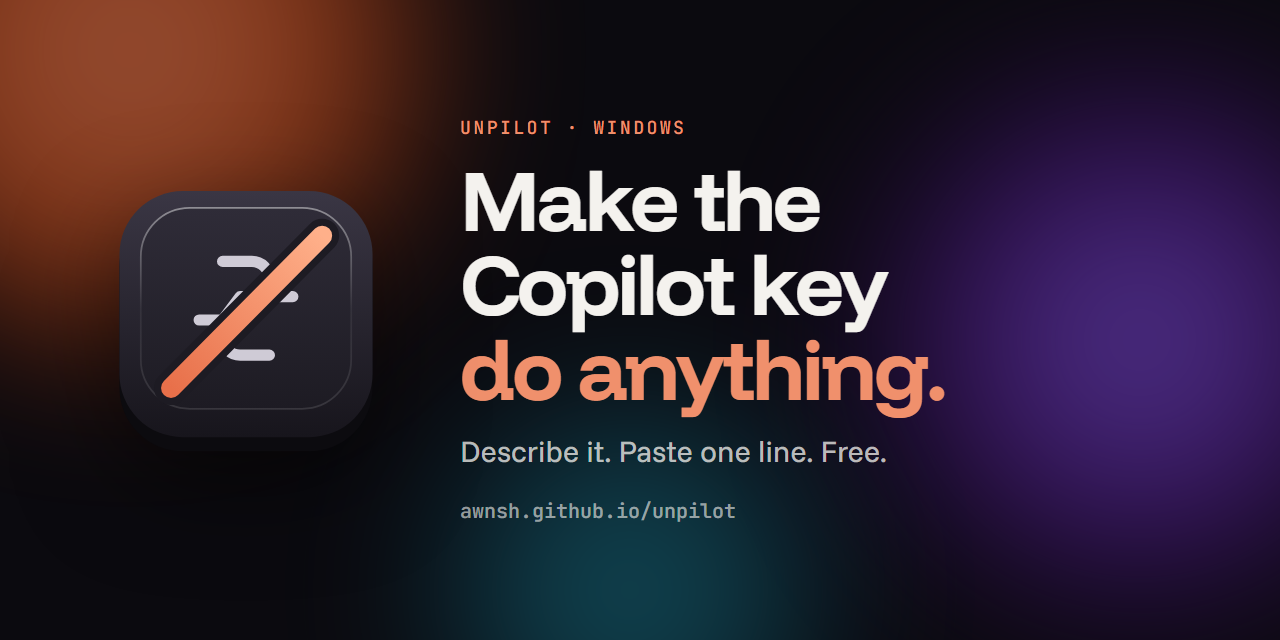
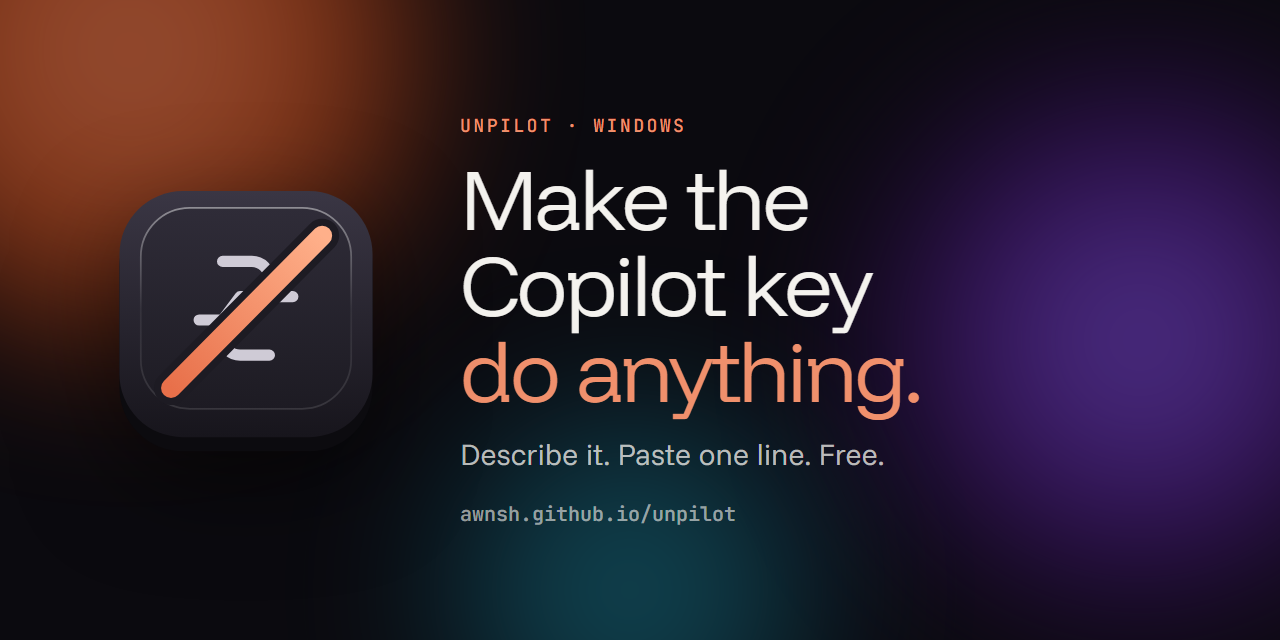
Use lighter Funnel weights for a thinner look

diff --git a/docs/index.html b/docs/index.html
@@ -16,7 +16,7 @@
 <meta name="twitter:image" content="https://awnsh.github.io/unpilot/og.png">
 <link rel="preconnect" href="https://fonts.googleapis.com">
 <link rel="preconnect" href="https://fonts.gstatic.com" crossorigin>
-<link href="https://fonts.googleapis.com/css2?family=Funnel+Display:wght@500;600;700&family=Funnel+Sans:wght@400;500;600;700&family=JetBrains+Mono:wght@400;500&display=swap" rel="stylesheet">
+<link href="https://fonts.googleapis.com/css2?family=Funnel+Display:wght@300;400;500&family=Funnel+Sans:wght@300;400;500&family=JetBrains+Mono:wght@400;500&display=swap" rel="stylesheet">
 <style>
   :root {
     --bg: #0b0a0f;
@@ -34,7 +34,7 @@
   }
   * { box-sizing: border-box; margin: 0; padding: 0; }
   html { scroll-behavior: smooth; }
-  body { background: var(--bg); color: var(--ink); font: 400 16.5px/1.6 "Funnel Sans", system-ui, -apple-system, "Segoe UI", sans-serif; -webkit-font-smoothing: antialiased; overflow-x: hidden; }
+  body { background: var(--bg); color: var(--ink); font: 300 16.5px/1.65 "Funnel Sans", system-ui, -apple-system, "Segoe UI", sans-serif; -webkit-font-smoothing: antialiased; overflow-x: hidden; }
   a { color: inherit; }
   button, input, select { font: inherit; color: inherit; }
   .wrap { width: min(1080px, 100% - 32px); margin: 0 auto; }
@@ -52,7 +52,7 @@
 
   /* ---------- Nav ---------- */
   nav { display: flex; align-items: center; justify-content: space-between; padding: 22px 0; }
-  .brand { display: flex; align-items: center; gap: 10px; font-weight: 600; letter-spacing: -.01em; text-decoration: none; }
+  .brand { display: flex; align-items: center; gap: 10px; font-weight: 500; letter-spacing: -.01em; text-decoration: none; }
   .brand-logo { display: block; filter: drop-shadow(0 4px 10px rgba(0,0,0,.4)); }
   .brand-key { width: 28px; height: 26px; border-radius: 7px; display: grid; place-items: center; background: linear-gradient(180deg, #2a2830, #18171c); border: 1px solid rgba(255,255,255,.16); box-shadow: 0 2px 0 #0c0b0e; position: relative; }
   .brand-key::after { content: ""; position: absolute; width: 22px; height: 2px; background: var(--accent); transform: rotate(-35deg); border-radius: 2px; }
@@ -66,7 +66,7 @@
   .hero { padding: 56px 0 10px; text-align: center; }
   .eyebrow { display: inline-flex; align-items: center; gap: 8px; font-size: 13px; color: var(--ink-2); padding: 6px 14px; border-radius: 999px; background: var(--glass); border: 1px solid var(--line); backdrop-filter: blur(12px); -webkit-backdrop-filter: blur(12px); }
   kbd { font: 500 12px "JetBrains Mono", monospace; padding: 1px 7px; border-radius: 6px; border: 1px solid rgba(255,255,255,.16); background: rgba(255,255,255,.07); }
-  h1 { font: 700 clamp(42px, 7.8vw, 92px)/1 "Funnel Display", "Funnel Sans", sans-serif; letter-spacing: -.035em; margin: 26px 0 20px; }
+  h1 { font: 300 clamp(42px, 7.8vw, 92px)/1.02 "Funnel Display", "Funnel Sans", sans-serif; letter-spacing: -.035em; margin: 26px 0 20px; }
   h1, h2, .will-what { text-wrap: balance; }
   h1 em, h2 em { font-style: normal; color: var(--accent); }
   .lede { max-width: 640px; margin: 0 auto; color: var(--ink-2); font-size: clamp(16px, 2.2vw, 18.5px); }
@@ -87,7 +87,7 @@
   .prompt .k { flex: none; }
   .prompt input { flex: 1; min-width: 0; background: transparent; border: 0; outline: none; font-size: 18px; padding: 10px 0; text-shadow: 0 0 8px rgba(0,0,0,.4); }
   .prompt input::placeholder { color: var(--ink-3); }
-  .go { flex: none; border: 0; cursor: pointer; border-radius: 999px; padding: 12px 20px; background: var(--ink); color: #111; font-weight: 600; font-size: 15px; transition: transform .15s; }
+  .go { flex: none; border: 0; cursor: pointer; border-radius: 999px; padding: 12px 20px; background: var(--ink); color: #111; font-weight: 500; font-size: 15px; transition: transform .15s; }
   .go:hover { transform: translateY(-1px); }
   .go:disabled { opacity: .6; cursor: wait; }
   @media (max-width: 560px) { .prompt { padding-left: 16px; } .prompt input { font-size: 16px; } .go { padding: 11px 14px; } .prompt .k { display: none; } }
@@ -102,7 +102,7 @@
   @keyframes rise { from { opacity: 0; transform: translateY(8px); } }
   .result-top { display: flex; justify-content: space-between; align-items: flex-start; gap: 14px; flex-wrap: wrap; }
   .will { font-size: 13px; color: var(--ink-3); }
-  .will-what { font: 700 clamp(26px, 4vw, 36px)/1.1 "Funnel Display", sans-serif; letter-spacing: -.03em; margin-top: 6px; }
+  .will-what { font: 400 clamp(26px, 4vw, 36px)/1.12 "Funnel Display", sans-serif; letter-spacing: -.03em; margin-top: 6px; }
   .badge { font: 500 11.5px "JetBrains Mono", monospace; padding: 5px 10px; border-radius: 999px; background: var(--accent-soft); color: var(--accent); white-space: nowrap; }
   .badge.unsure { background: rgba(245,196,107,.14); color: var(--warn); }
   .fields { display: grid; grid-template-columns: 220px 1fr; gap: 10px; margin-top: 20px; }
@@ -115,20 +115,20 @@
   .warn { display: none; margin-top: 12px; font-size: 13.5px; color: var(--warn); background: rgba(245,196,107,.08); border: 1px solid rgba(245,196,107,.25); border-radius: 12px; padding: 10px 13px; }
   .warn.show { display: block; }
   .howto { margin-top: 20px; font-size: 14px; color: var(--ink-2); }
-  .howto b { color: var(--ink); font-weight: 600; }
+  .howto b { color: var(--ink); font-weight: 500; }
 
   .code { position: relative; margin-top: 10px; border-radius: 14px; background: rgba(0,0,0,.3); border: 1px solid var(--line); }
   .code pre { white-space: pre-wrap; word-break: break-all; padding: 14px 84px 14px 16px; font: 400 13px/1.55 "JetBrains Mono", monospace; color: var(--ink); }
-  .copy { position: absolute; right: 8px; top: 9px; font: 600 12.5px "Funnel Sans", sans-serif; color: var(--ink); background: rgba(255,255,255,.08); border: 1px solid var(--line); border-radius: 999px; padding: 6px 12px; cursor: pointer; }
+  .copy { position: absolute; right: 8px; top: 9px; font: 500 12.5px "Funnel Sans", sans-serif; color: var(--ink); background: rgba(255,255,255,.08); border: 1px solid var(--line); border-radius: 999px; padding: 6px 12px; cursor: pointer; }
   .copy:hover { background: rgba(255,255,255,.14); }
 
   /* ---------- Sections ---------- */
   section { padding: 104px 0 0; }
   .label { font: 500 12px "JetBrains Mono", monospace; letter-spacing: .12em; text-transform: uppercase; color: var(--accent); }
-  h2 { font: 700 clamp(30px, 4.8vw, 52px)/1.05 "Funnel Display", sans-serif; letter-spacing: -.03em; margin: 12px 0 16px; }
+  h2 { font: 300 clamp(30px, 4.8vw, 52px)/1.08 "Funnel Display", sans-serif; letter-spacing: -.03em; margin: 12px 0 16px; }
   .sub { color: var(--ink-2); max-width: 640px; }
   .card { padding: 24px; border-radius: 22px; background: var(--glass); border: 1px solid var(--line); backdrop-filter: blur(16px); -webkit-backdrop-filter: blur(16px); }
-  .card h3 { font-size: 17px; font-weight: 600; margin-bottom: 6px; }
+  .card h3 { font-size: 17px; font-weight: 500; margin-bottom: 6px; }
   .card p { color: var(--ink-2); font-size: 15px; }
 
   .swap { display: grid; grid-template-columns: 1fr auto 1fr; gap: 18px; margin-top: 36px; }
@@ -146,7 +146,7 @@
   .idea { text-align: left; cursor: pointer; padding: 18px 20px; border-radius: 18px; background: var(--glass); border: 1px solid var(--line); transition: border-color .15s, transform .15s, background .15s; }
   .idea:hover { border-color: rgba(240,144,108,.45); background: rgba(255,255,255,.09); transform: translateY(-2px); }
   .idea .ic { font-size: 22px; line-height: 1; }
-  .idea strong { display: block; font-weight: 600; margin-top: 10px; }
+  .idea strong { display: block; font-weight: 500; margin-top: 10px; }
   .idea span { display: block; color: var(--ink-3); font-size: 13.5px; margin-top: 2px; }
 
   h2 .accent { color: var(--accent); }
@@ -161,7 +161,7 @@
   .menubar { position: absolute; inset: 0 0 auto 0; height: 22px; display: flex; align-items: center; gap: 10px; padding: 0 12px; background: rgba(255,255,255,.22); backdrop-filter: blur(10px); -webkit-backdrop-filter: blur(10px); }
   .menubar i { width: 26px; height: 5px; border-radius: 3px; background: rgba(0,0,0,.35); }
   .menubar i:first-child { width: 10px; height: 10px; border-radius: 50%; }
-  .mb-right { margin-left: auto; font-size: 10.5px; font-weight: 600; color: rgba(0,0,0,.6); }
+  .mb-right { margin-left: auto; font-size: 10.5px; font-weight: 500; color: rgba(0,0,0,.6); }
   .ghost-win { position: absolute; left: 9%; top: 18%; width: 62%; height: 58%; border-radius: 10px; background: rgba(255,255,255,.14); border: 1px solid rgba(255,255,255,.18); }
   .win-ghost { left: auto; right: 8%; top: 9%; border-radius: 8px; }
   .dots { display: flex; gap: 5px; padding: 8px 10px; }
@@ -193,7 +193,7 @@
   @media (max-width: 480px) { .pill { width: 90%; top: 24%; } .reply .a { font-size: 12px; } }
 
   figcaption { display: flex; align-items: center; gap: 10px; flex-wrap: wrap; margin-top: 14px; font-size: 14px; }
-  .os { font-weight: 600; }
+  .os { font-weight: 500; }
   .press { display: inline-flex; gap: 5px; }
   .press kbd { transition: transform .1s, background .1s, box-shadow .1s; box-shadow: 0 2px 0 rgba(0,0,0,.45); }
   .press.down kbd { transform: translateY(2px); box-shadow: none; background: var(--accent-soft); border-color: rgba(240,144,108,.6); }
